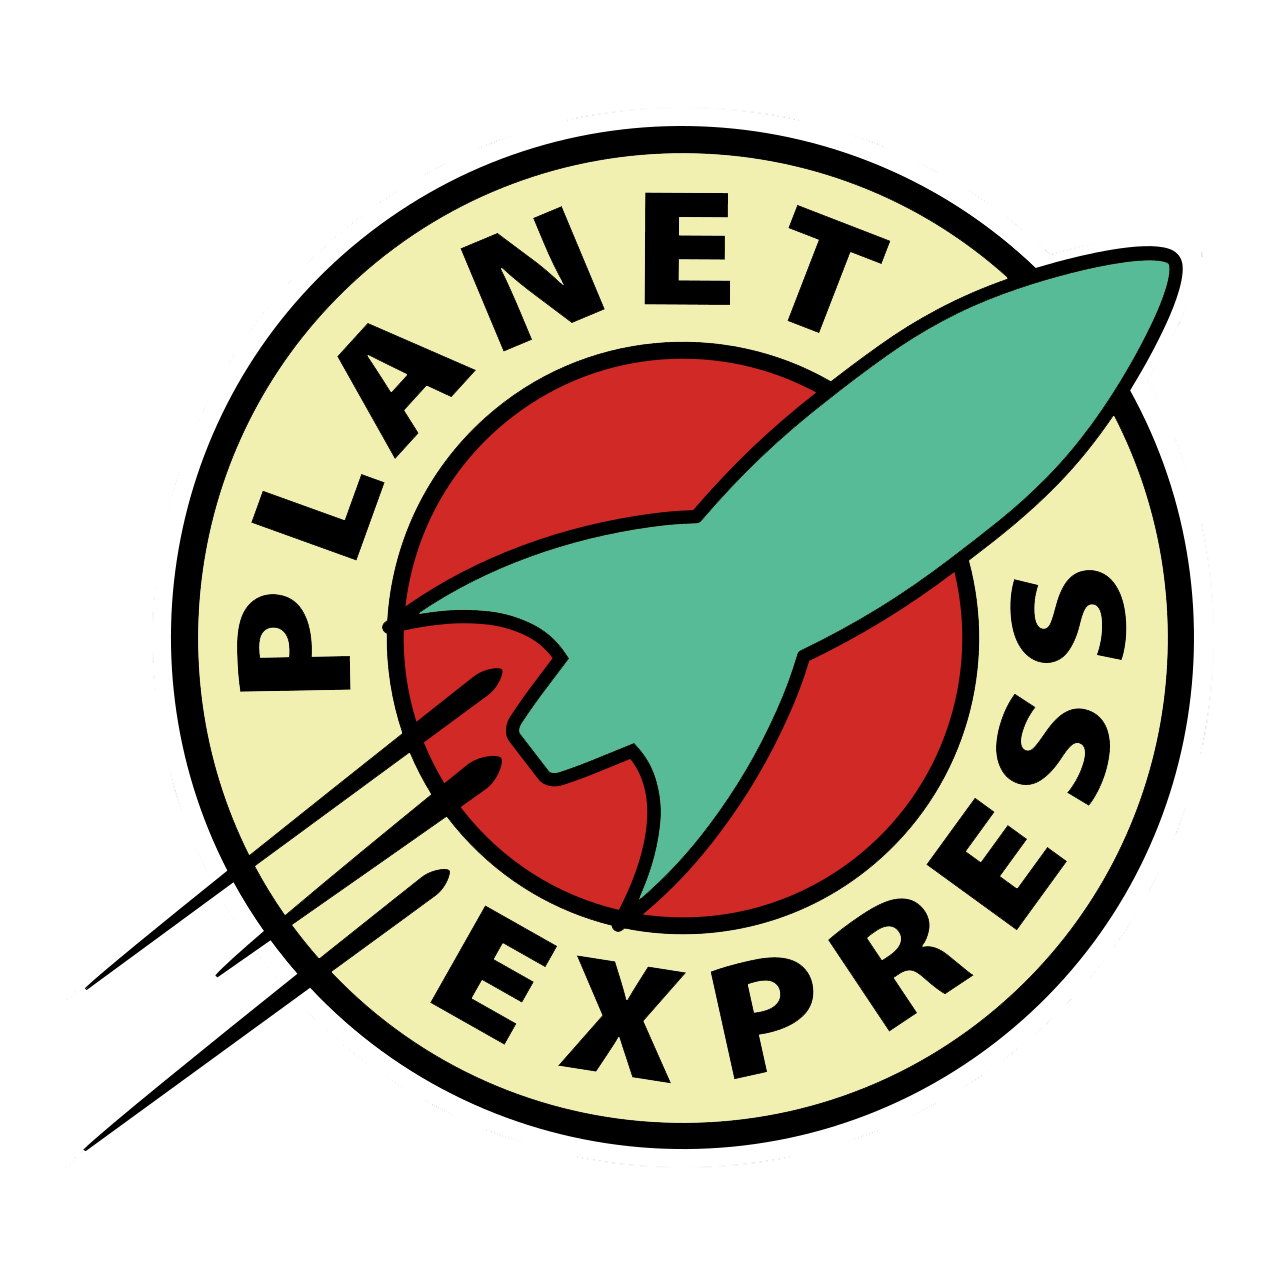
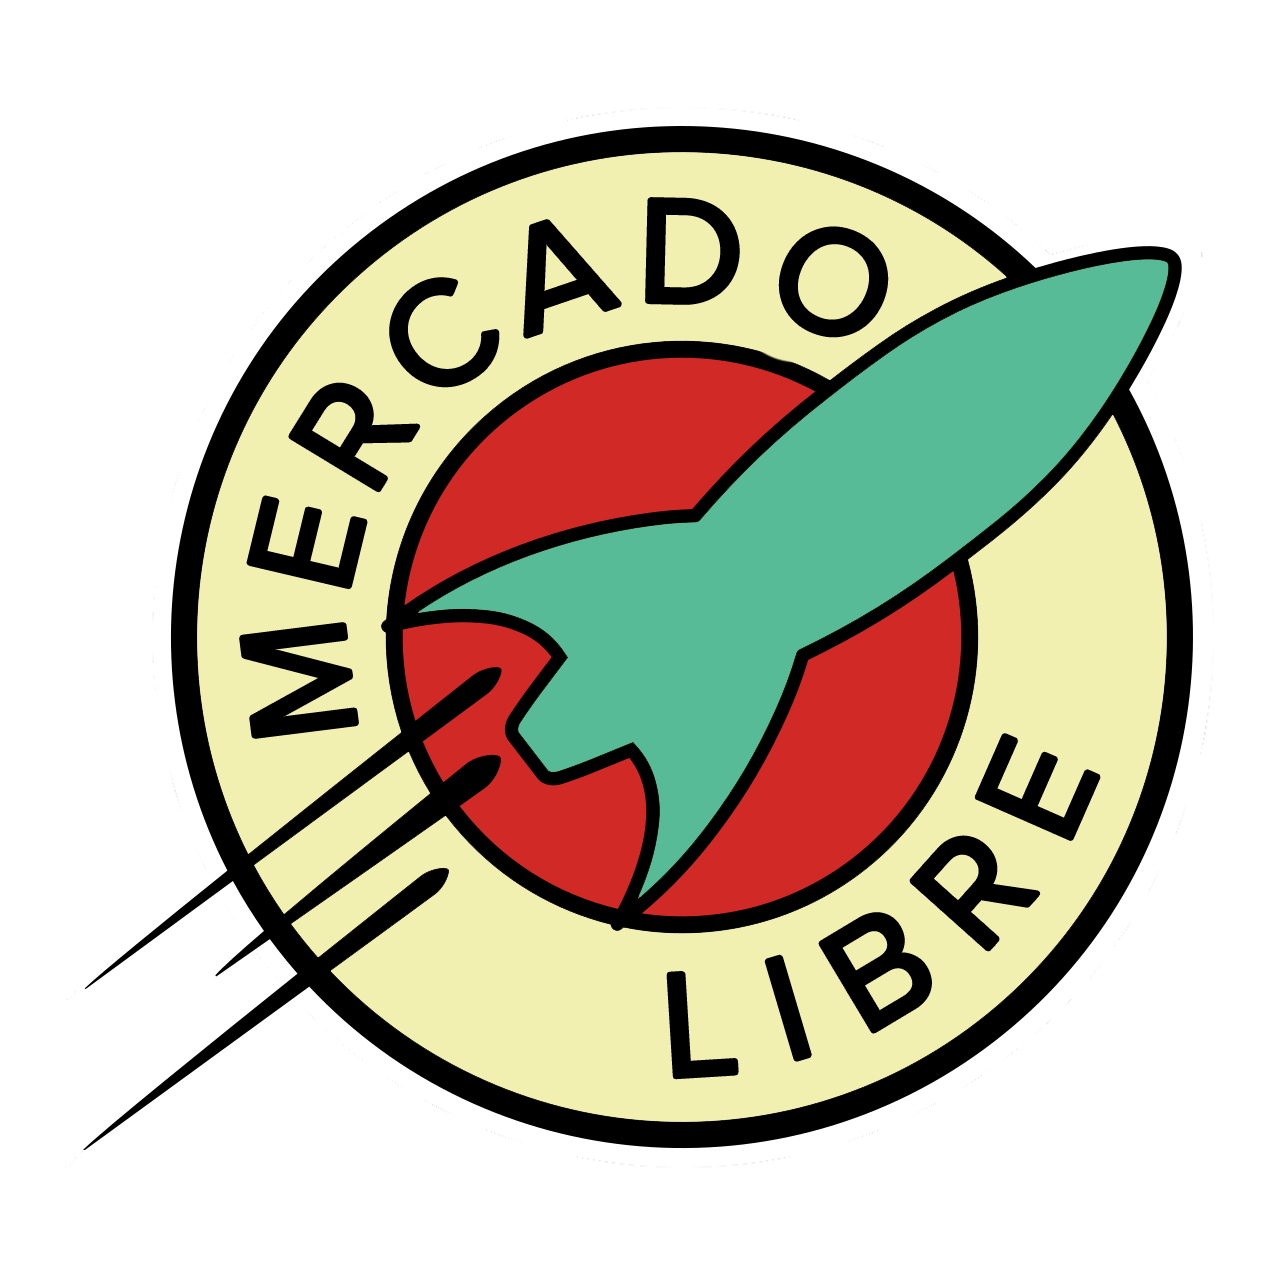
Correcciones (#44)
* Style home gap mobile and change logo

diff --git a/src/views/Home/components/ProductList/components/ProductListCard.tsx b/src/views/Home/components/ProductList/components/ProductListCard.tsx
@@ -1,6 +1,7 @@
 import './ProductListCard.scss';
 import { useState } from 'react';
 import { BsHeart } from 'react-icons/bs';
+import formatNumberWithDot from '@/utils/helpers/formatNumberWithDot';
 import { useNavigate } from 'react-router-dom';
 
 interface Products {
@@ -51,7 +52,9 @@ const ProductListCard = ({ producto }: Props) => {
         />
       </div>
       <div className='productListCard_infoContainer'>
-        <h4 className='productListCard_price'>$ {producto.price}</h4>
+        <h4 className='productListCard_price'>
+          $ {formatNumberWithDot(Number(producto.price))}
+        </h4>
         <p
           className='productListCard_title'
           style={{ opacity: productHover ? '1' : '0' }}

diff --git a/src/views/Home/Home.scss b/src/views/Home/Home.scss
@@ -3,5 +3,11 @@
 .home_container {
   display: flex;
   flex-direction: column;
-  gap: 80px;
+  gap: 50px;
+}
+
+@media (min-width: $laptop) {
+  .home_container {
+    gap: 80px;
+  }
 }
